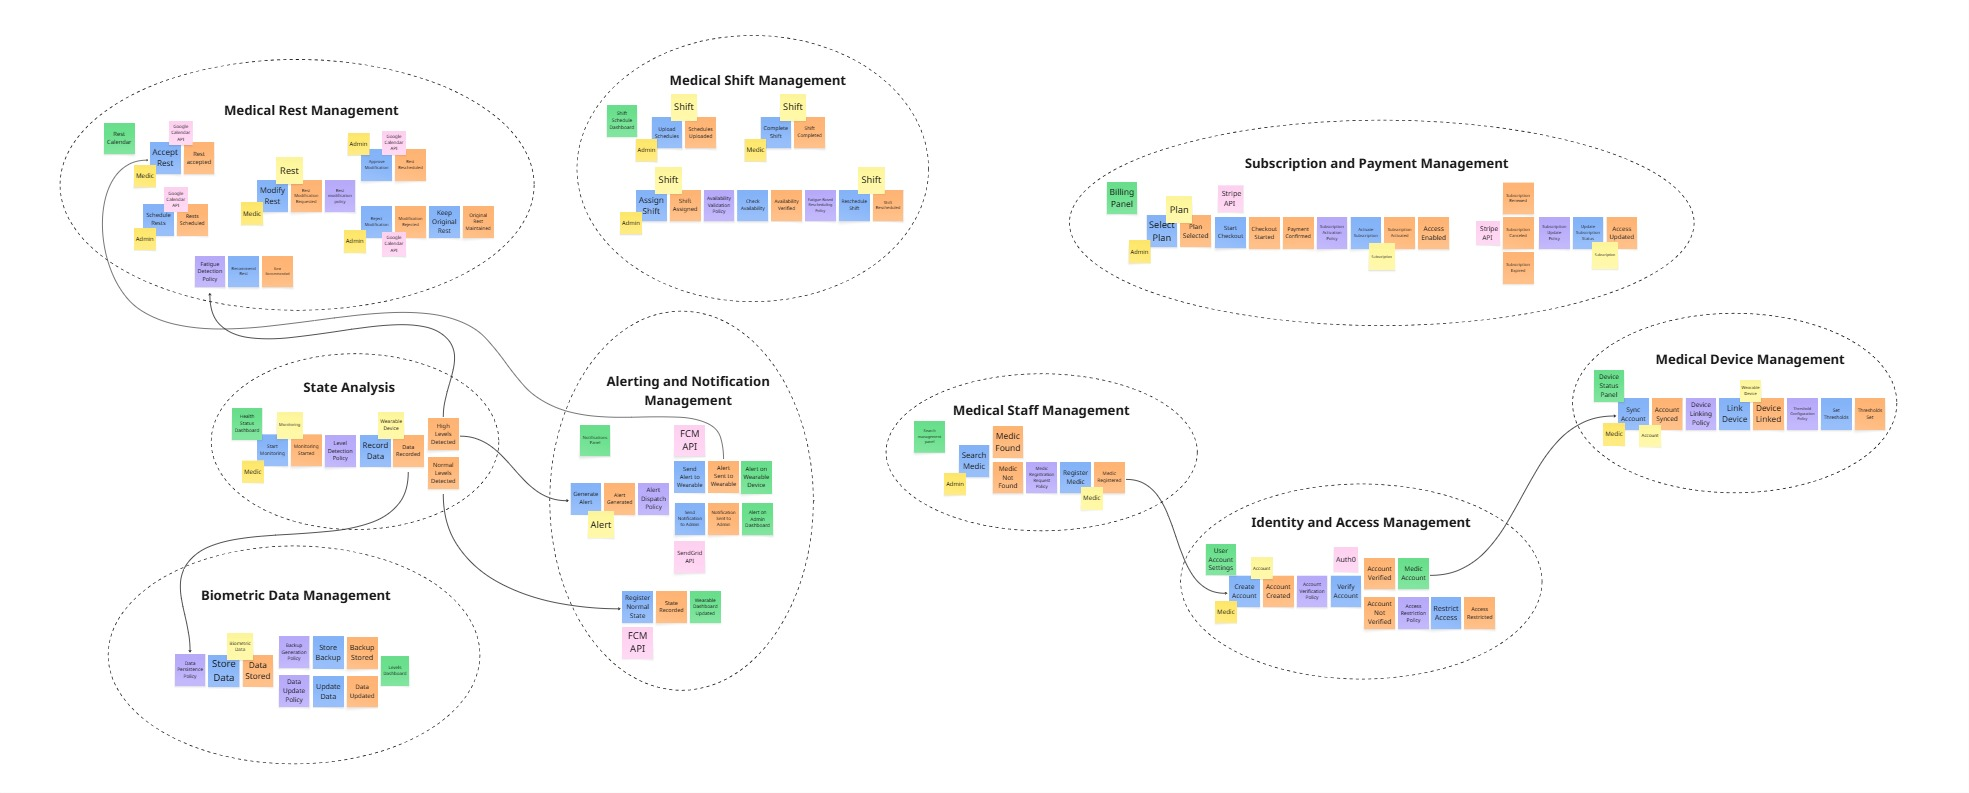
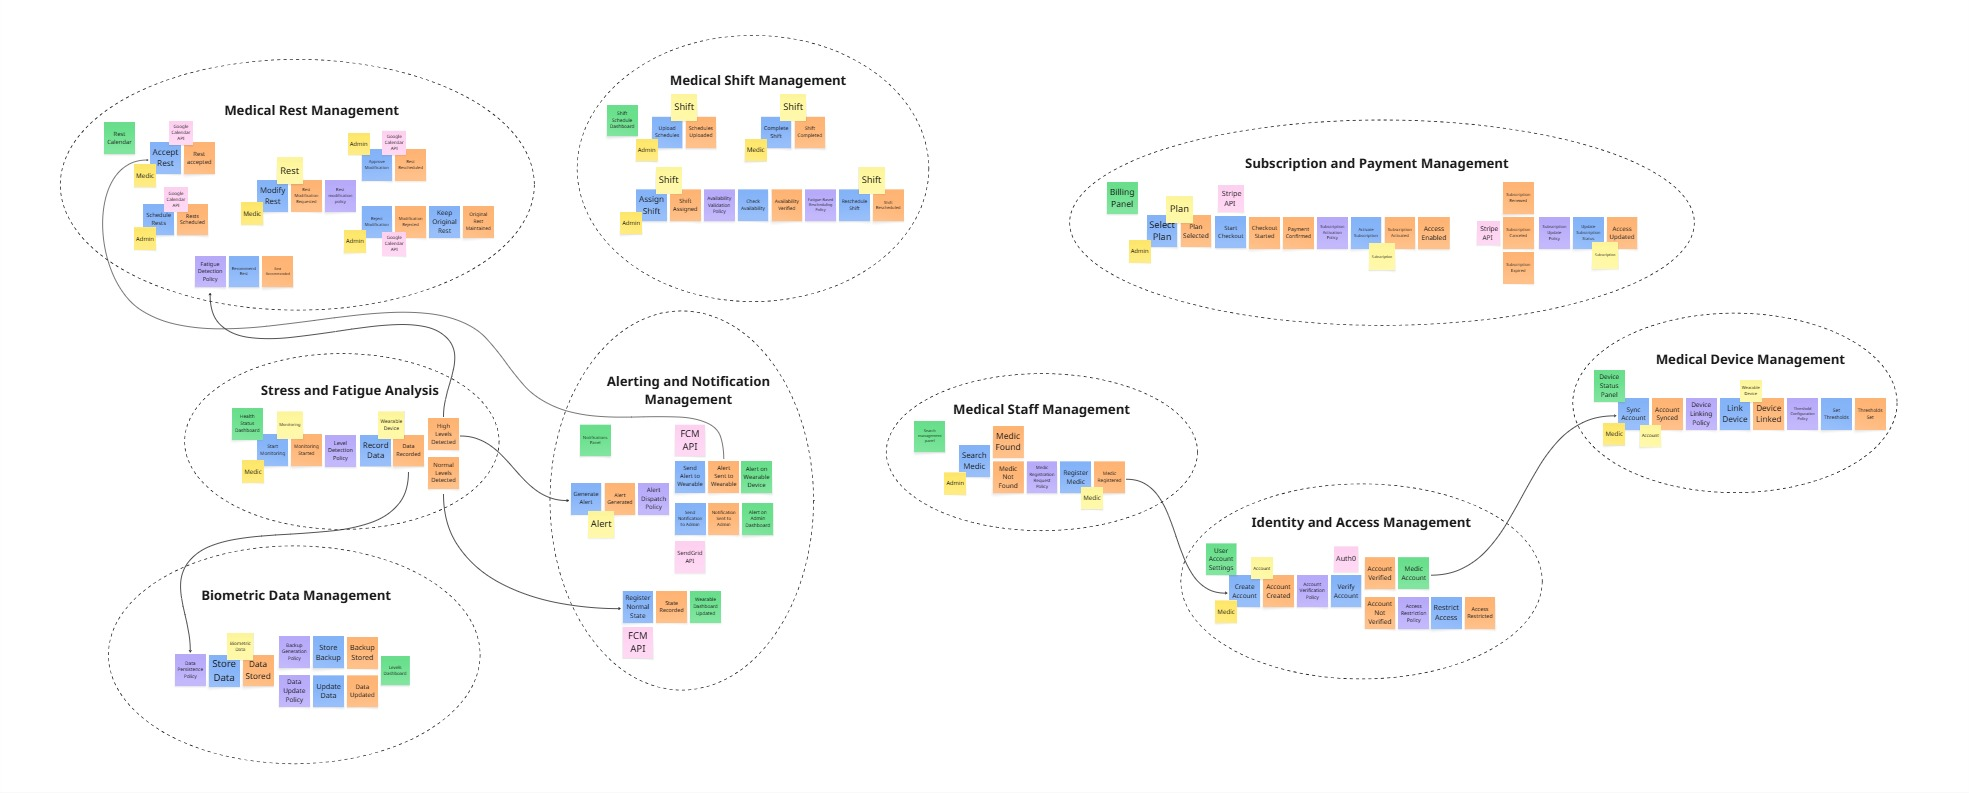
docs: corrections in the design level event storming

diff --git a/README.md b/README.md
@@ -1169,8 +1169,8 @@ A partir del análisis realizado, se identificaron bounded contexts que cumplen 
 
 A continuación, se describe cada bounded context de manera individual.
 
-  * **State Analysis:** Este bounded context se encarga de analizar los datos biométricos capturados por los dispositivos, con el fin de identificar si el estado del médico se encuentra dentro de niveles normales o si presenta valores críticos.<br><br>
-  <img src="Resources/Images/Desing-Level-Event-Storming/state_analysis.jpg" alt="Event Storming del bounded context de Análisis de Estado">
+  * **Stress and Fatigue Analysis:** Este bounded context se encarga de analizar los datos biométricos capturados por los dispositivos, con el fin de identificar si el estado del médico se encuentra dentro de niveles normales o si presenta valores críticos.<br><br>
+  <img src="Resources/Images/Desing-Level-Event-Storming/stress_and_fatigue.jpg" alt="Event Storming del bounded context de Análisis de Estado">
 
   * **Biometric Data Management:** Este bounded context gestiona el almacenamiento, actualización y respaldo de los datos biométricos obtenidos desde los dispositivos, asegurando su persistencia y disponibilidad para su posterior análisis. <br><br>
   <img src="Resources/Images/Desing-Level-Event-Storming/biometric_data.jpg" alt="Event Storming del bounded context de Gestión de Datos Biométricos">
